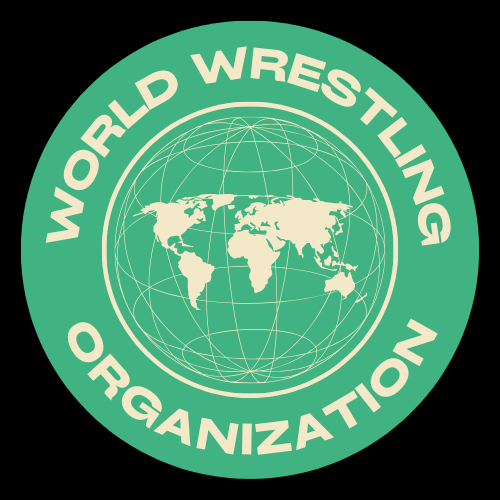
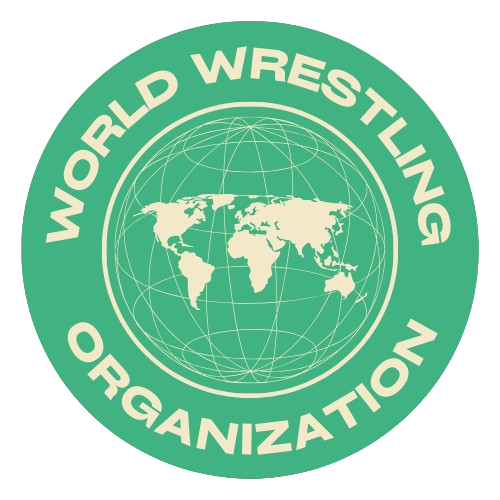
Add files

diff --git a/wrestling/org/wwo.html b/wrestling/org/wwo.html
@@ -27,7 +27,7 @@
             height: auto;
         }
         
-        .infobox-title {
+        .infobox-title caption {
             font-size: 1.2em;
             font-weight: bold;
             text-align: center;
@@ -322,59 +322,222 @@
 <body>
     <!-- Infobox Table -->
     <div class="infobox">
-    <caption class="infobox-title">World Wrestling Organization</caption>
-        <img src="/docs/wrestling/1.png" alt="World Wrestling Organization Logo">
+    <div class="infobox-resection">World Wrestling Organization</div>
+    <img src="/docs/wrestling/1.png" alt="World Wrestling Organization Logo" style="display:block; margin:0 auto; width:230px !important; height:auto; max-width:none;">
         <div class="infobox-content">
             <table>
+                <tr>
+                    <th>Acronym</th>
+                    <td>WWO</td>             
+                </tr>
+                <tr>
+                    <th>Full name</th>
+                    <td>World Wrestling Organization</td>             
+                </tr>
+                <tr>
+                    <th>Native name</th>
+                    <td>Organización Mundial de Lucha Libre</td>
+                </tr>
                 <tr>
                     <th>Sport</th>
                     <td>Professional wrestling</td>
                 </tr>
                 <tr>
-                    <th>Acronym</th>
-                    <td>WWO</td>
+                    <th>Type</th>
+                    <td>Sanctioning organization</td>
                 </tr>
                 <tr>
                     <th>Formation</th>
                     <td>1986</td>
                 </tr>
                 <tr>
-                    <th>Headquarters</th>
-                    <td>Mexico City, Mexico</td>
-                </tr>
-                <tr>
                     <th>Jurisdiction</th>
                     <td>Worldwide</td>
                 </tr>
                 <tr>
+                    <th>Headquarters</th>
+                    <td><span class="fi fi-mx"></span> Mexico City, Mexico</td>
+                </tr>
+                <tr>
                     <th>President</th>
-                    <td>Espanto</td>
+                    <td><span class="fi fi-mx"></span> Espanto</td>
+                </tr>
+                <tr>
+                    <th>Main organ</th>
+                    <td>General Assembly</td>
                 </tr>
                 <tr>
                     <th>Website</th>
-                    <td><a href="/wrestling/wwo/home.html">wwo.com</td>
+                    <td><a href="/wrestling/org/wwo.html">wwo.com</td>
                 </tr>
             </table>
             
-            
-        <div class="infobox-section">Championships</div>
-            <div class="infobox-resection">Men's</div>
-            <table class="medal-table">
-                <tr>
-                    <td style="background-color: goldenrod; font-weight: bold; width: 30%; text-align: center;">Runner-up</td>
-                    <td colspan="2">2030 Morocco-Portugal-Spain</td>
-                </tr>
-            </table>
-        </div>
-        <div class="infobox-resection">UEFA European Championship</div>
-            <table class="medal-table">
-                <tr>
-                    <td style="background-color: gold; font-weight: bold; width: 30%; text-align: center;">Winner</td>
-                    <td colspan="2">2032 Italy-Turkey</td>
-                </tr>
-            </table>
-            </div>
         </div>
     </div>
+
+    <h1>World Wrestling Organization</h1>
+
+    <p>The World Wresling Organization (WWO) is an international professional wrestling organization based in Mexico. It is among the three major organizations which sanction professional wrestling bouts, alongside the <a href="/wrestling/org/wwf.html">World Wrestling Federation (WWF)</a> and the <a href="/wrestling/org/iwb.html">International Wrestling Board (IWB).</a>  The WWO awards its world championship titles at the professional level, and is colloqually known by wrestling fans as <i>La Mundial</i>.</p>
+
+    <!-- WWO Heavyweight Championship -->
+    <details>
+    <summary>WWO World Heavyweight Champion</summary> 
+        <table class="champ-history">
+        <tr>
+            <th>No.</th>
+            <th>Champion</th>
+            <th>Date</th>
+            <th>Event</th>
+            <th>Days</th>
+            <th>Defenses</th>
+            <th>Notes</th>
+        </tr>
+        <tr>
+            <th>1</th>
+            <td><span class="fi fi-ng"></span> Oba Femi</td>
+            <td>May 2024</td>
+            <td>WLO 1</td>
+            <td>107</td>
+            <td>1</td>
+            <td>Won ten man Gauntlet</td>
+        </tr>
+        <tr>
+            <th>2</th>
+            <td><span class="fi fi-lu"></span> Argus</td>
+            <td>September 2024</td>
+            <td>LibreMania I Night 1</td>
+            <td>224</td>
+            <td>3</td>
+            <td>Def. Oba Femi (singles)</td>
+        </tr>
+        <tr>
+            <th>3</th>
+            <td><span class="fi fi-at"></span> Gunther</td>
+            <td>May 2025</td>
+            <td>WLO 6</td>
+            <td>112</td>
+            <td>3</td>
+            <td>Def. Argus (singles)</td>
+        </tr>
+        <tr>
+            <th>4</th>
+            <td><span class="fi fi-us"></span> Roman Reigns</td>
+            <td>September 2025</td>
+            <td>LibreMania II Night 1</td>
+            <td>672</td>
+            <th>13</th>
+            <td>Def. Gunther (2/3 falls)</td>
+        </tr>
+        <tr>
+            <th>5</th>
+            <td><span class="fi fi-us"></span> The Rock</td>
+            <td>September 2027</td>
+            <td>LibreMania IV Night 1</td>
+            <td>134</td>
+            <td>4</td>
+            <td>Def. Various (four-way)</td>
+        </tr>
+        <tr>
+            <th colspan="7" style="font-size:0.8em; line-height:1.3; text-align:center;">
+                The Rock vacated the title because he was unsure whether he would continue his wrestling career.
+            </th>
+        </tr>
+        <tr>
+            <th>6</th>
+            <td><span class="fi fi-mx"></span> Olmeca</td>
+            <td>March 2028</td>
+            <td>WLO 25</td>
+            <td>56</td>
+            <td>0</td>
+            <td>Def. Various (three-way)</td>
+        </tr>
+        <tr>
+            <th>7</th>
+            <td><span class="fi fi-jp"></span> Charlie Sakamoto</td>
+            <td>May 2028</td>
+            <td>WLO 26</td>
+            <td> <1 </td>
+            <td>0</td>
+            <td>Def. Olmeca (singles)</td>
+        </tr>
+        <tr>
+            <th>8</th>
+            <td><span class="fi fi-at"></span> Gunther (2)</td>
+            <td>May 2028</td>
+            <td>WLO 26</td>
+            <td>336</td>
+            <td>8</td>
+            <td>WLO Contract cash-in</td>
+        </tr>
+        <tr>
+            <th>9</th>
+            <td><span class="fi fi-jp"></span> Charlie Sakamoto (2)</td>
+            <td>May 2029</td>
+            <td>WLO 34</td>
+            <td>114</td>
+            <td>3</td>
+            <td>Def. Gunther (singles)</td>
+        </tr>
+    </table>
+    <!-- Champ Totals Table -->
+        <table style="width: 65%;" class="totals">
+        <tr>
+            <th>Rank</th>
+            <th>Wrestler</th>
+            <th>No. of reigns</th>
+            <th>Combined days</th>
+            <th>Championship Defenses</th>
+        </tr>
+        <tr>
+            <th>1</th>
+            <td><span class="fi fi-us"></span> Roman Reigns</td>
+            <td>1</td>
+            <td>672</td>
+            <td>13</td>
+        </tr>
+        <tr>
+            <th>2</th>
+            <td><span class="fi fi-at"></span> Gunther</td>
+            <td>2</td>
+            <td>448</td>
+            <td>11</td>
+        </tr>
+        <tr>
+            <th>3</th>
+            <td><span class="fi fi-lu"></span> Argus</td>
+            <td>1</td>
+            <td>224</td>
+            <td>3</td>
+        </tr>
+        <tr>
+            <th>4</th>
+            <td><span class="fi fi-us"></span> The Rock</td>
+            <td>1</td>
+            <td>134</td>
+            <td>4</td>
+        </tr>
+        <tr>
+            <th>5</th>
+            <td><span class="fi fi-jp"></span> Charlie Sakamoto</td>
+            <td>2</td>
+            <td>114</td>
+            <td>3</td>
+        </tr>
+        <tr>
+            <th>6</th>
+            <td><span class="fi fi-ng"></span> Oba Femi</td>
+            <td>1</td>
+            <td>107</td>
+            <td>1</td>
+        </tr>
+        <tr>
+            <th>7</th>
+            <td><span class="fi fi-mx"></span> Olmeca</td>
+            <td>1</td>
+            <td>56</td>
+            <td>0</td>
+        </tr>
+    </table>
+    </details>
 
 </body></html>
